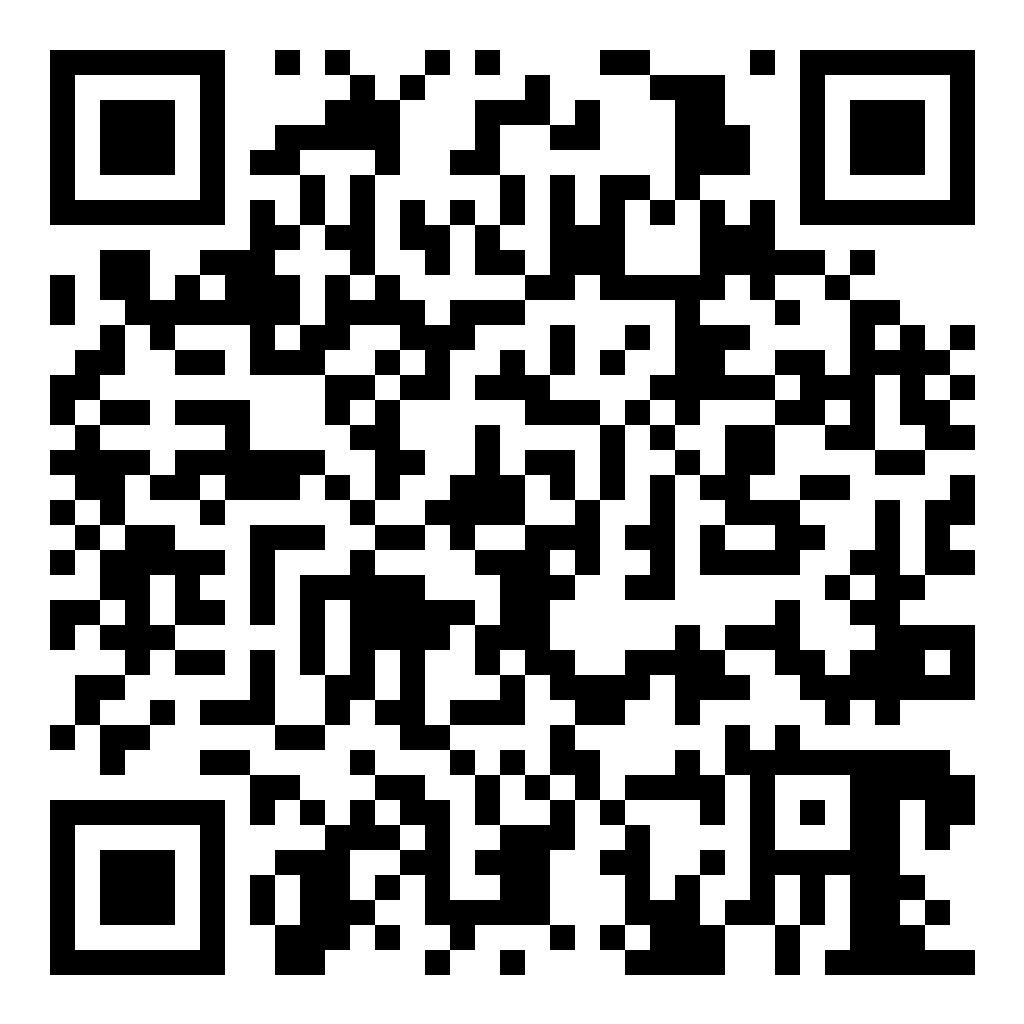
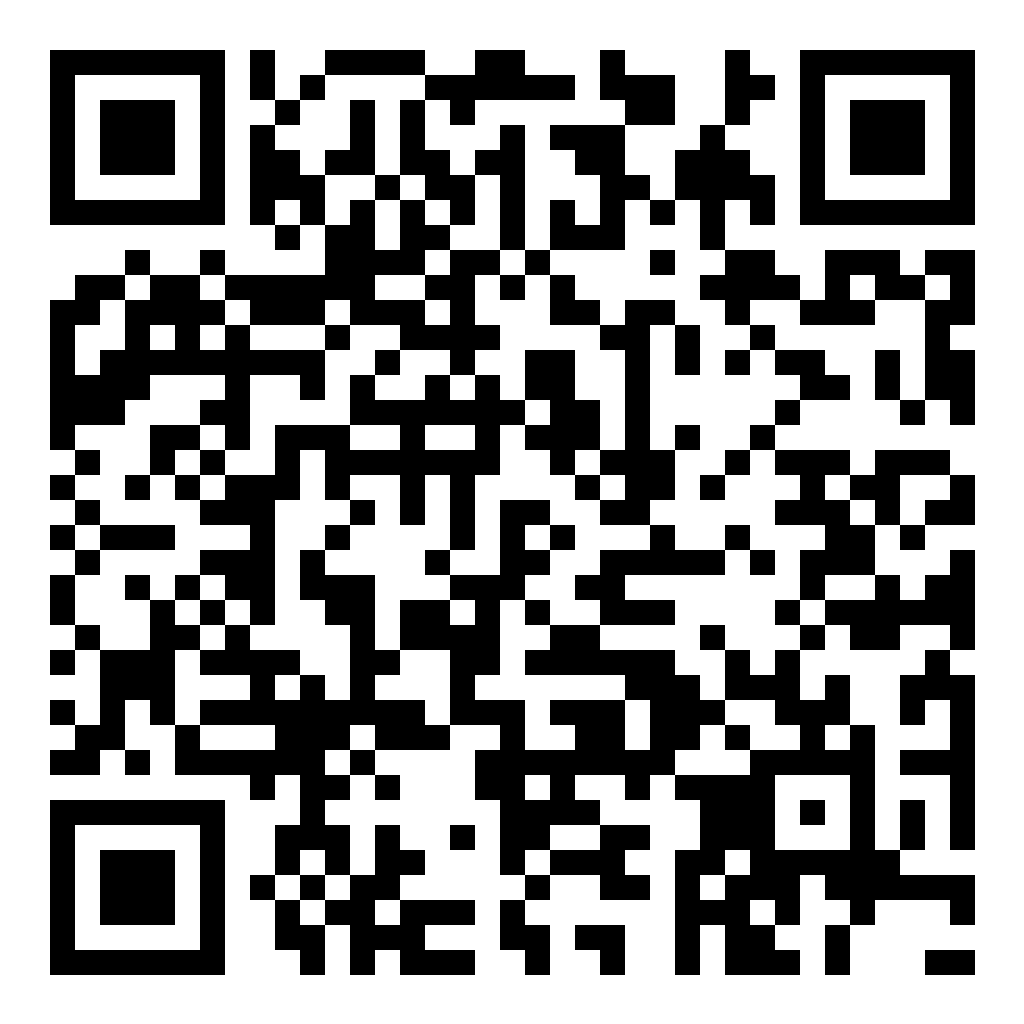
Update Cloudflare demo content

diff --git a/no-choice-demo/public/play.html b/no-choice-demo/public/play.html
@@ -492,9 +492,9 @@
       const AMAP_WEB_SERVICE_KEY = "7f40078338209e23255e8f8e0ca8cc37";
       const DEFAULT_AMAP_CENTER = { lat: 39.904179, lng: 116.407387, amap: true, label: "北京" };
       const MIN_RESTAURANT_COST = 150;
-      const AMAP_RESTAURANT_LIMIT = 25;
+      const AMAP_RESTAURANT_LIMIT = 20;
       const AMAP_SEARCH_PAGES = 6;
-      const AMAP_PRICE_POOL_SIZE = 60;
+      const AMAP_PRICE_POOL_SIZE = 30;
       const ACCENTS = ["var(--red)", "var(--green)", "var(--yellow)", "var(--purple)", "var(--blue)"];
       const FOOD_CARD_IMAGES = [
         { keywords: ["火锅","川","湘","辣","麻辣","串串","烤鱼"], urls: [
@@ -1459,7 +1459,7 @@
         const center = coords.amap ? coords : await convertToAmap(coords);
         const pois = [];
         const searchRequests = restaurantAmapRequests(radius, keywords, options);
-        const minRequestsBeforeStop = Math.min(2, searchRequests.length);
+        const hasEnoughCandidates = () => diverseRestaurantPois(preferredRestaurantPois(pois.map(normalizeAmapPoi), options), AMAP_PRICE_POOL_SIZE).length >= AMAP_PRICE_POOL_SIZE;
         for(let requestIndex=0; requestIndex<searchRequests.length; requestIndex++){
           const request = searchRequests[requestIndex];
           for(let page=1; page<=AMAP_SEARCH_PAGES; page++){
@@ -1470,9 +1470,10 @@
             if(data.status !== "1") throw new Error(data.info || "高德附近餐厅查询失败");
             const pagePois = data.pois || [];
             pois.push(...pagePois.map((poi)=>({ ...poi, __searchKeyword: request.keyword })));
+            if(hasEnoughCandidates()) break;
             if(pagePois.length < AMAP_RESTAURANT_LIMIT) break;
           }
-          if(requestIndex + 1 >= minRequestsBeforeStop && diverseRestaurantPois(preferredRestaurantPois(pois.map(normalizeAmapPoi), options), AMAP_PRICE_POOL_SIZE).length >= AMAP_PRICE_POOL_SIZE) break;
+          if(hasEnoughCandidates()) break;
         }
         return diverseRestaurantPois(preferredRestaurantPois(pois.map(normalizeAmapPoi), options), AMAP_PRICE_POOL_SIZE);
       }
@@ -1542,11 +1543,38 @@
       function normalizeAmapPoi(poi){
         if(!poi || !poi.name) return null;
         const photos = Array.isArray(poi.photos) ? poi.photos : [];
-        const image = String(photos.find(p=>p && p.url)?.url || "").replace(/^http:\/\//i, "https://");
+        const image = selectAmapPoiPhotoUrl(photos);
         const business = poi.business || {};
         const [lng,lat] = String(poi.location || "").split(",").map(Number);
         const typeParts = String(poi.type || "").split(";");
         return { id: poi.id || poi.name, name: poi.name, address: Array.isArray(poi.address) ? poi.address.join("") : (poi.address || ""), type: typeParts[typeParts.length-1] || typeParts[0] || "餐厅", typecode: poi.typecode || "", area: [poi.cityname, poi.adname].filter(Boolean).join(" "), businessArea: business.business_area || business.businessArea || "", tag: business.tag || poi.tag || "", opentimeToday: business.opentime_today || business.opentimeToday || "", opentimeWeek: business.opentime_week || business.opentimeWeek || "", distance: Number(poi.distance) || 0, rating: business.rating || "", cost: business.cost || "", image, searchKeyword: cleanRestaurantKeyword(poi.__searchKeyword || ""), location: Number.isFinite(lat) && Number.isFinite(lng) ? { lat, lng } : null };
+      }
+      const AMAP_PHOTO_CATEGORY_SCORE = { food: 400, drink: 400, interior: 300, storefront: 200, unknown: 100 };
+      function selectAmapPoiPhotoUrl(photos){
+        return (Array.isArray(photos) ? photos : []).map((photo,index)=>{
+          const url = normalizeAmapPhotoUrl(photo?.url);
+          if(!url) return null;
+          const category = inferAmapPhotoCategory(photo, url);
+          const sourceBonus = url.includes("aos-comment.amap.com") ? 30 : 0;
+          return { url, score: (AMAP_PHOTO_CATEGORY_SCORE[category] || AMAP_PHOTO_CATEGORY_SCORE.unknown) + sourceBonus - index };
+        }).filter(Boolean).sort((a,b)=>b.score-a.score)[0]?.url || "";
+      }
+      function normalizeAmapPhotoUrl(url){
+        return String(url || "").replace(/^http:\/\//i, "https://");
+      }
+      function inferAmapPhotoCategory(photo, url){
+        const text = normalizeAmapPhotoText([photo?.category, photo?.type, photo?.imageCategory, photo?.tag, photo?.title].filter(Boolean).join(" "));
+        if(/(饮品|饮料|咖啡|茶|酒|果汁|奶茶|饮|drink|beverage|coffee|tea|wine|cocktail|beer)/i.test(text)) return "drink";
+        if(/(菜品|菜|餐|饭|面|粉|粥|锅|肉|鱼|虾|蟹|小吃|甜品|蛋糕|点心|烧烤|火锅|寿司|刺身|food|dish|meal|dessert|snack|hotpot|sushi|noodle|rice|bbq|grill|cake)/i.test(text)) return "food";
+        if(/(环境|室内|店内|装修|包厢|座位|大厅|餐桌|吧台|露台|interior|inside|indoor|dining|seat|table|bar)/i.test(text)) return "interior";
+        if(/(门头|招牌|门面|外观|入口|店门|门店|店铺|档口|柜台|storefront|facade|entrance|signboard|shopfront|counter)/i.test(text)) return "storefront";
+        const lowerUrl = url.toLowerCase();
+        if(lowerUrl.includes("aos-comment.amap.com")) return "food";
+        if(lowerUrl.includes("store.is.autonavi.com")) return "storefront";
+        return "unknown";
+      }
+      function normalizeAmapPhotoText(value){
+        return String(value || "").toLowerCase();
       }
       function filterRestaurantPois(pois, { minCost = 0, maxCost = 0, minRating = 0, mustKeywords = [], avoidKeywords = [] } = {}){
         const must = normalizeSimpleKeywords(mustKeywords, 8).map(normalizeMatchText).filter(Boolean);

diff --git a/no-choice-demo/public/_worker.js b/no-choice-demo/public/_worker.js
@@ -1,8 +1,8 @@
 const MIN_DINNER_COST = 150;
-const POI_PAGE_SIZE = 25;
+const POI_PAGE_SIZE = 20;
 const POI_SEARCH_PAGES = 6;
-const DINNER_PRICE_POOL_SIZE = 60;
-const DECIDE_POI_LIMIT = 20;
+const DINNER_PRICE_POOL_SIZE = 30;
+const DECIDE_POI_LIMIT = 30;
 
 const poiConfigs = {
   dinner: {
@@ -736,6 +736,12 @@ async function fetchAroundPois({ center, key, keyword, config }) {
   const pages = config.minCost ? POI_SEARCH_PAGES : 1;
   const pageSize = config.minCost ? POI_PAGE_SIZE : 8;
   const pois = [];
+  const hasEnoughDinnerCandidates = () =>
+    config.minCost &&
+    diverseRestaurantPois(
+      pois.map(normalizeAmapPoi).filter((poi) => isTargetPoi(poi, config)),
+      DINNER_PRICE_POOL_SIZE,
+    ).length >= DINNER_PRICE_POOL_SIZE;
 
   for (let page = 1; page <= pages; page += 1) {
     const url = new URL("https://restapi.amap.com/v5/place/around");
@@ -759,6 +765,9 @@ async function fetchAroundPois({ center, key, keyword, config }) {
 
     const pagePois = data.pois || [];
     pois.push(...pagePois);
+    if (hasEnoughDinnerCandidates()) {
+      break;
+    }
     if (pagePois.length < pageSize) {
       break;
     }
@@ -779,7 +788,7 @@ function normalizeAmapPoi(poi) {
   const [lng, lat] = String(poi.location || "")
     .split(",")
     .map(Number);
-  const image = Array.isArray(poi.photos) && poi.photos[0]?.url ? poi.photos[0].url : "";
+  const image = selectAmapPoiPhotoUrl(poi.photos);
   const typeParts = String(poi.type || "").split(";");
 
   return {
@@ -794,6 +803,72 @@ function normalizeAmapPoi(poi) {
     image,
     location: Number.isFinite(lat) && Number.isFinite(lng) ? { lat, lng } : null,
   };
+}
+
+const AMAP_PHOTO_CATEGORY_SCORE = {
+  food: 400,
+  drink: 400,
+  interior: 300,
+  storefront: 200,
+  unknown: 100,
+};
+
+function selectAmapPoiPhotoUrl(photos) {
+  return (Array.isArray(photos) ? photos : [])
+    .map((photo, index) => {
+      const url = normalizeAmapPhotoUrl(photo?.url);
+      if (!url) {
+        return null;
+      }
+      const category = inferAmapPhotoCategory(photo, url);
+      const sourceBonus = url.includes("aos-comment.amap.com") ? 30 : 0;
+      return {
+        url,
+        score: (AMAP_PHOTO_CATEGORY_SCORE[category] || AMAP_PHOTO_CATEGORY_SCORE.unknown) + sourceBonus - index,
+      };
+    })
+    .filter(Boolean)
+    .sort((a, b) => b.score - a.score)[0]?.url || "";
+}
+
+function normalizeAmapPhotoUrl(url) {
+  return String(url || "").replace(/^http:\/\//i, "https://");
+}
+
+function inferAmapPhotoCategory(photo, url) {
+  const text = normalizeAmapPhotoText([
+    photo?.category,
+    photo?.type,
+    photo?.imageCategory,
+    photo?.tag,
+    photo?.title,
+  ].filter(Boolean).join(" "));
+
+  if (/(饮品|饮料|咖啡|茶|酒|果汁|奶茶|饮|drink|beverage|coffee|tea|wine|cocktail|beer)/i.test(text)) {
+    return "drink";
+  }
+  if (/(菜品|菜|餐|饭|面|粉|粥|锅|肉|鱼|虾|蟹|小吃|甜品|蛋糕|点心|烧烤|火锅|寿司|刺身|food|dish|meal|dessert|snack|hotpot|sushi|noodle|rice|bbq|grill|cake)/i.test(text)) {
+    return "food";
+  }
+  if (/(环境|室内|店内|装修|包厢|座位|大厅|餐桌|吧台|露台|interior|inside|indoor|dining|seat|table|bar)/i.test(text)) {
+    return "interior";
+  }
+  if (/(门头|招牌|门面|外观|入口|店门|门店|店铺|档口|柜台|storefront|facade|entrance|signboard|shopfront|counter)/i.test(text)) {
+    return "storefront";
+  }
+
+  const lowerUrl = url.toLowerCase();
+  if (lowerUrl.includes("aos-comment.amap.com")) {
+    return "food";
+  }
+  if (lowerUrl.includes("store.is.autonavi.com")) {
+    return "storefront";
+  }
+  return "unknown";
+}
+
+function normalizeAmapPhotoText(value) {
+  return String(value || "").toLowerCase();
 }
 
 function isTargetPoi(poi, config) {

diff --git a/no-choice-demo/public/qr.html b/no-choice-demo/public/qr.html
@@ -80,7 +80,7 @@
       <h1>扫码体验不做选择</h1>
       <p>手机扫码，直接进入抽卡拍板页面。</p>
       <img src="./no-choice-play-qr.png" alt="不做选择体验二维码" />
-      <a href="https://hpuxyh.github.io/no-choice/play.html">打开体验链接</a>
+      <a href="https://no-choice.pages.dev/play.html">打开体验链接</a>
     </main>
   </body>
 </html>

diff --git a/no-choice-demo/README.md b/no-choice-demo/README.md
@@ -34,16 +34,17 @@ http://127.0.0.1:5173/
 
 ## 发布扫码版
 
-二维码指向 GitHub Pages 的手机体验页：
+二维码指向 Cloudflare Pages 的手机体验页：
 
 ```text
-https://hpuxyh.github.io/no-choice/play.html
+https://no-choice.pages.dev/play.html
 ```
 
-推送到 `main` 后，仓库里的 GitHub Actions 会自动构建并发布到 GitHub Pages：
+发布最新版本前先登录 Wrangler，然后部署 `dist` 到 Cloudflare Pages：
 
-```text
-https://hpuxyh.github.io/no-choice/
+```bash
+npx wrangler login
+npm run deploy:pages
 ```
 
 ## POI 配置
